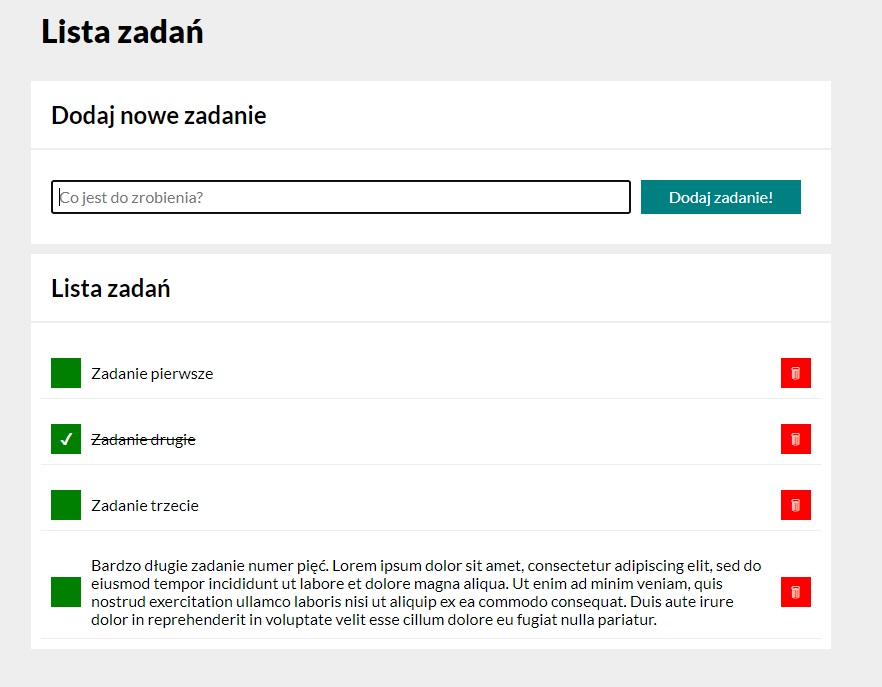
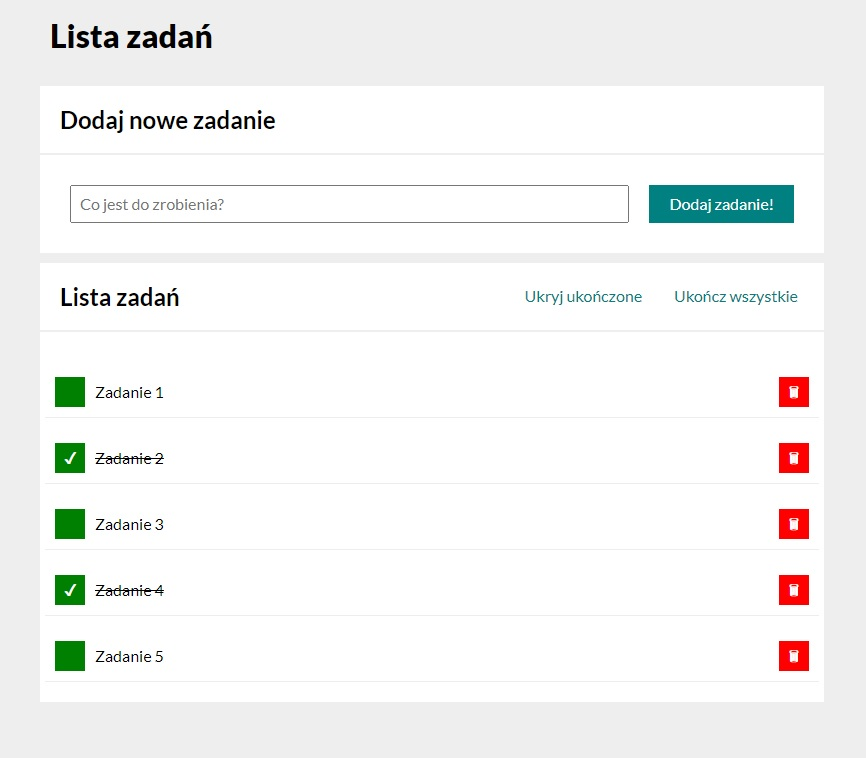
media query added, README corrected

diff --git a/js/script.js b/js/script.js
@@ -51,12 +51,7 @@
     }
 
     const toggleTaskDone = (index) => {
-
-        if (tasks[index].done === false) {
-            newDoneValue = true;
-        } else {
-            newDoneValue = false;
-        }
+        tasks[index].done === false ? newDoneValue = true : newDoneValue = false;
 
         tasks = [
             ...tasks.slice(0, index),
@@ -94,9 +89,7 @@
                 hideDoneTasks = !hideDoneTasks;
                 render();
             });
-        } else {
-            console.log("nie ma buttonów");
-        }
+        } else { }
 
         const allTasksDoneButton = document.querySelector(".js-allTasksDoneButton");
 
@@ -104,9 +97,7 @@
             allTasksDoneButton.addEventListener("click", () => {
                 markAllTasksDone();
             });
-        } else {
-            console.log("nie ma buttonów");
-        }
+        } else { }
     }
 
     const renderButtons = () => {
@@ -114,19 +105,15 @@
 
         if (tasks.length > 0) {
 
-            console.log("tablica zawiera obiekty")
-
             htmlString += `
                 <button class =\"taskList__topButton js-hideDoneButton\">${hideDoneTasks === false ? "Ukryj ukończone" : "Pokaż ukończone"}</button>
                 <button class =\"taskList__topButton js-allTasksDoneButton\" ${checkIfAllTasksAreDone() === true ? "disabled" : ""}>Ukończ wszystkie</button>
         `;
-        } else {
-            console.log("tablica jest pusta")
-        }
+        } else { }
+
         document.querySelector(".js-topButtons").innerHTML = htmlString;
         bindTopButtonsEvents();
     }
-
 
     const renderTaskList = () => {
         let htmlString = "";
@@ -168,5 +155,4 @@
     };
 
     init();
-
 }

diff --git a/css/taskList.css b/css/taskList.css
@@ -51,7 +51,6 @@
 }
 
 .taskList__headerContainer {
-    width: 100%;
     background-color: hsl(0, 0%, 100%);
     margin-top: 2px;
     display: flex;
@@ -59,13 +58,39 @@
     justify-content: space-between;
 }
 
-.taskList__header {
-    padding: 20px;
-    margin: 0px;
-    flex-grow: 1;
+@media (max-width: 767px) {
+    .taskList__headerContainer {
+        flex-wrap: wrap;
+        justify-content: center;
+    }
 }
 
-.taskList__topButtonsContainer {}
+.taskList__header {
+    flex-basis: 51%;
+}
+
+@media (max-width: 767px) {
+    .taskList__header {
+        flex-basis: 100%;
+    }
+}
+
+.taskList__headerText {
+    padding: 20px;
+    margin: 0px;
+}
+
+.taskList__topButtonsContainer {
+    display: flex;
+    justify-content: center;
+}
+
+@media (max-width: 767px) {
+    .taskList__topButtonsContainer {
+        flex-direction: column;
+        align-self: center;
+    }
+}
 
 .taskList__topButton {
     border: none;

diff --git a/index.html b/index.html
@@ -48,8 +48,8 @@
         </form>
 
         <section class="taskList__headerContainer">
-            <header>
-                <h2 class="taskList__header">Lista zadań</h2>
+            <header class="taskList__header">
+                <h2 class="taskList__headerText">Lista zadań</h2>
             </header>
             <div class="taskList__topButtonsContainer js-topButtons">
             </div>

diff --git a/css/main.css b/css/main.css
@@ -1,6 +1,7 @@
 .main {
     max-width: 800px;
     margin: 10px auto;
+    padding: 8px;
 }
 
 @media (max-width: 767px) {

diff --git a/README.md b/README.md
@@ -12,7 +12,9 @@ Hi! My name is Kamil. At the begining of 2021 I had a briliant idea. I started t
 
 ## About this project
 
-This is my third study project. Very simple task list. I applied basic capabilities adding / removing and marking tasks as done.
+This is my third study project - Task List.
+I applied basic capabilities adding, removing and marking tasks as done.
+Also two new buttons: hide all done tasks and mark all tasks as done.
 
 ## Technologies and conventions used in project:
 * HTML
@@ -20,3 +22,4 @@ This is my third study project. Very simple task list. I applied basic capabilit
 * javascript
 * BEM
 * CamelCase
+* Immutability
